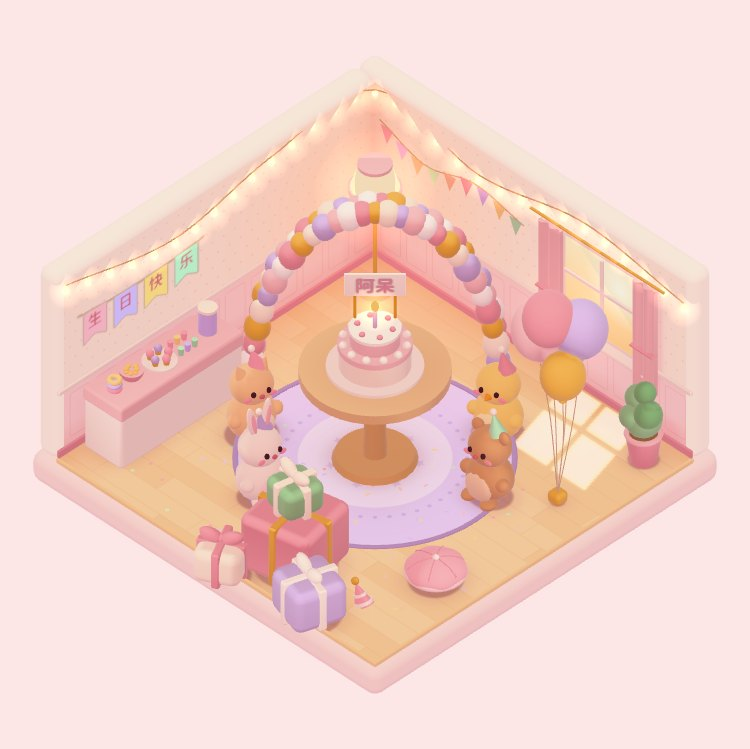
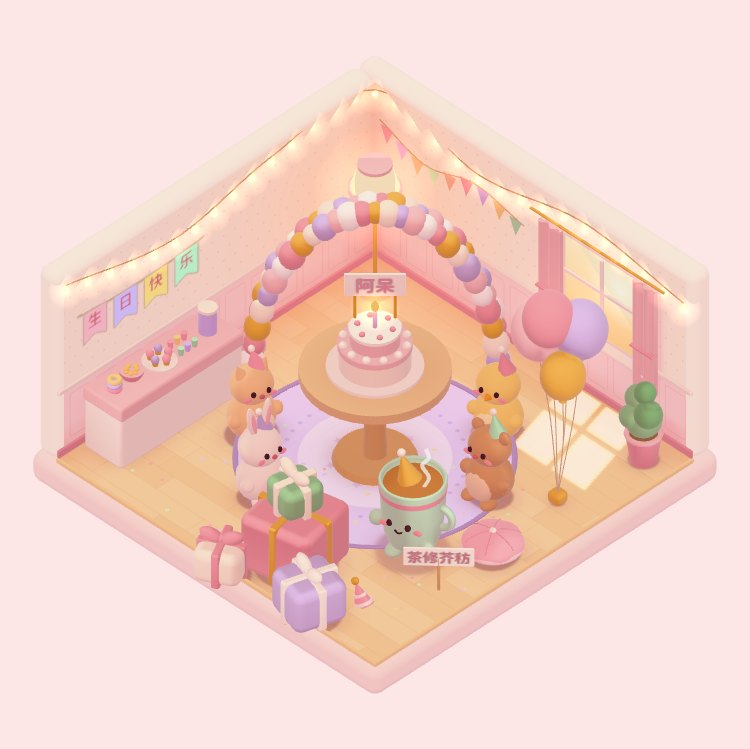
Teacup guest: original clay teacup with name sign, tap to wobble, puff steam and show a small line

Changed region(s): [[0.4907, 0.5834, 0.7053, 0.7984]]

diff --git a/src/room/scene.js b/src/room/scene.js
@@ -14,6 +14,7 @@ import {
   Group, Mesh, MeshLambertMaterial, MeshBasicMaterial, CylinderGeometry, SphereGeometry,
   ConeGeometry, BoxGeometry, TorusGeometry, BufferGeometry, Float32BufferAttribute,
   CatmullRomCurve3, TubeGeometry, Vector3, PlaneGeometry, CanvasTexture, SRGBColorSpace,
+  LatheGeometry, Vector2,
 } from 'three';
 import { RoundedBoxGeometry } from 'three/addons/geometries/RoundedBoxGeometry.js';
 
@@ -270,7 +271,7 @@ function cushion() {
   piping.rotation.x = -Math.PI / 2;
   g.add(at(piping, 0, 0.12, 0));
   g.add(at(ball(0.035, C.white, 10, 8), 0, 0.275, 0));
-  g.position.set(1.65, 0.02, 0.85);
+  g.position.set(1.75, 0.02, 0.2); // 前面留给小茶杯人
   return g;
 }
 
@@ -608,6 +609,89 @@ function guests() {
   return g;
 }
 
+// 原创黏土小茶杯人：圆滚滚的杯身就是身体和脸，右边是杯把，头顶冒一缕热气，脚边插着名牌。正面是 +z
+function teacup() {
+  const g = new Group();
+  const CUP = 0xc4e6cd; // 薄荷青瓷
+  // 杯身：底部圆润、杯口微微外翻，里面有一层茶
+  const profile = [[0, 0.07], [0.09, 0.07], [0.135, 0.1], [0.158, 0.17], [0.172, 0.3], [0.18, 0.43], [0.186, 0.5], [0.178, 0.515], [0.165, 0.5], [0.16, 0.47], [0, 0.47]]
+    .map(([x, y]) => new Vector2(x, y));
+  g.add(flag(new Mesh(new LatheGeometry(profile, 28), mat(CUP)), 'shade'));
+  g.add(at(cyl(0.161, 0.161, 0.01, 0xc98a52, 28), 0, 0.472, 0)); // 茶
+  g.add(at(cyl(0.186, 0.182, 0.035, C.pinkDeep, 28), 0, 0.445, 0)); // 杯口一圈粉色花边
+  // 杯把
+  const handle = new Mesh(new TorusGeometry(0.065, 0.022, 8, 16, Math.PI), mat(CUP));
+  handle.rotation.z = -Math.PI / 2;
+  g.add(at(handle, 0.17, 0.3, 0));
+  // 小手小脚
+  const blob = (r, color, sx, sy, sz, x, y, z) => {
+    const m = ball(r, color, 12, 9);
+    m.scale.set(sx, sy, sz);
+    return at(m, x, y, z);
+  };
+  for (const s of [-1, 1]) g.add(blob(0.05, CUP, 1, 0.65, 1.3, s * 0.075, 0.035, 0.07));
+  g.add(blob(0.045, CUP, 1, 1, 1, -0.19, 0.2, 0.05));
+  g.add(blob(0.045, CUP, 1, 1, 1, 0.14, 0.17, 0.11));
+  // 脸：和小动物一样的眼睛、腮红，再加一个小笑嘴
+  for (const s of [-1, 1]) {
+    g.add(blob(0.018, 0x5a4048, 1, 1.2, 1, s * 0.055, 0.3, 0.165));
+    g.add(blob(0.028, 0xffa7b8, 1, 0.6, 0.4, s * 0.1, 0.265, 0.142));
+  }
+  const smile = new Mesh(new TorusGeometry(0.02, 0.006, 6, 12, Math.PI), mat(0x5a4048));
+  smile.rotation.z = Math.PI;
+  g.add(at(smile, 0, 0.268, 0.168));
+  // 派对帽，歪戴在茶面上
+  const cone = new Mesh(new ConeGeometry(0.07, 0.17, 16), mat(C.gold));
+  cone.rotation.z = 0.3;
+  g.add(at(cone, -0.05, 0.56, -0.01));
+  g.add(at(ball(0.025, C.white, 8, 6), -0.075, 0.645, -0.01));
+  // 头顶一缕热气（单独一个网格，会飘动；点它时冒的一阵热气也在这里）
+  const steamMat = new MeshBasicMaterial({ color: 0xffffff, transparent: true, opacity: 0.75, depthWrite: false });
+  const curve = new CatmullRomCurve3([[0.06, 0.48, 0], [0.09, 0.56, 0], [0.05, 0.63, 0], [0.09, 0.7, 0], [0.07, 0.76, 0]].map((p) => new Vector3(...p)));
+  const steam = new Mesh(new TubeGeometry(curve, 24, 0.011, 6), steamMat);
+  steam.name = 'steam';
+  g.add(flag(steam, 'keep', 'noOcclude'));
+  const puffMat = new MeshBasicMaterial({ color: 0xffffff, transparent: true, opacity: 0, depthWrite: false });
+  const puffs = new Group();
+  puffs.name = 'puffs';
+  for (const [x, z] of [[0.05, 0.02], [-0.04, -0.03], [0.1, -0.05]]) {
+    const p = new Mesh(new SphereGeometry(0.05, 10, 8), puffMat);
+    p.userData.start = new Vector3(x, 0.52, z);
+    p.visible = false;
+    puffs.add(flag(p, 'keep', 'noOcclude'));
+  }
+  g.add(puffs);
+  // 脚边的名牌
+  const sign = new Group();
+  sign.add(at(cyl(0.008, 0.008, 0.22, C.woodDark, 8), 0, 0.11, 0));
+  sign.add(at(box(0.38, 0.125, 0.014, C.white, 0.025), 0, 0.23, 0));
+  sign.add(flag(at(nameLabel('茶修芥䄱', 0.37, 0.12), 0, 0.23, 0.011), 'keep')); // 离牌子表面 4mm
+  sign.position.set(0.27, 0, 0.22);
+  sign.rotation.y = 0.45; // 牌子正对镜头
+  sign.traverse((o) => flag(o, 'noOcclude'));
+  g.add(sign);
+  g.position.set(1.2, 0.02, 0.7);
+  g.rotation.y = 0.3; // 和小动物一样，脸朝镜头偏一点
+  g.scale.setScalar(1.75); // 比小动物大一点：它是主人
+  return g;
+}
+
+// 小牌子上的字：用真正的像素大小画，手机上才不会画坏
+function nameLabel(text, w, h) {
+  const c = document.createElement('canvas');
+  c.width = 384;
+  c.height = Math.round((384 * h) / w);
+  const g = c.getContext('2d');
+  g.fillStyle = '#C9707F';
+  g.font = `700 ${Math.round(c.height * 0.7)}px PartyRound, sans-serif`;
+  g.textAlign = 'center';
+  g.textBaseline = 'middle';
+  g.fillText(text, c.width / 2, c.height * 0.54);
+  const tex = new CanvasTexture(c);
+  tex.colorSpace = SRGBColorSpace;
+  return new Mesh(new PlaneGeometry(w, h), new MeshBasicMaterial({ map: tex, transparent: true }));
+}
+
 export function buildRoom() {
   const root = new Group();
   flag(root, 'unit');
@@ -615,7 +699,7 @@ export function buildRoom() {
     shell(), rugEdge(), windowOnRightWall(), stringLights(), buntings(), lamp(), plant(), cushion(), partyHat(),
     snackTable(), banner(), balloonArch(), guests(),
   );
-  const interactive = { gifts: gifts(), balloons: balloons(), cake: cakeTable() };
+  const interactive = { gifts: gifts(), balloons: balloons(), cake: cakeTable(), teacup: teacup() };
   for (const [key, obj] of Object.entries(interactive)) {
     obj.userData.interactive = key;
     obj.userData.baseScale = obj.scale.x;

diff --git a/src/room.js b/src/room.js
@@ -72,11 +72,12 @@ export function startRoom(el, music = createMusic()) {
         </div>
       </div>
     </div>
-    <p class="room-toast"></p>`);
+    <p class="room-toast"></p>
+    <p class="tea-bubble" aria-live="polite"></p>`);
   const $ = (sel) => el.querySelector(sel);
   const title = $('.room-title'), hint = $('.room-hint'), wallet = $('.room-wallet');
   const cakePanel = $('.cake-panel'), cakeMsg = $('.cake-msg'), cakeActions = $('.cake-actions');
-  const toast = $('.room-toast'), wxHint = $('.wx-hint');
+  const toast = $('.room-toast'), wxHint = $('.wx-hint'), teaBubble = $('.tea-bubble');
 
   // ---------- 场景 ----------
   const renderer = new WebGLRenderer({ canvas, antialias: true, alpha: true, powerPreference: 'high-performance' });
@@ -320,7 +321,51 @@ export function startRoom(el, music = createMusic()) {
       if (b) popBalloon(b);
     } else if (key === 'cake') {
       enterCake();
+    } else if (key === 'teacup') {
+      teaT = 0;
+      teaBubble.textContent = '使唤券还没用哦';
+      teaBubble.classList.remove('show');
+      void teaBubble.offsetWidth; // 连点时让小字重新跳一次
+      teaBubble.classList.add('show');
+      clearTimeout(teaBubbleTimer);
+      teaBubbleTimer = setTimeout(() => teaBubble.classList.remove('show'), 2200);
     }
+  }
+
+  // ---------- 小茶杯人：平时热气轻轻飘，点一下晃一晃、冒一阵热气、跳出一句小字 ----------
+  const teacup = interactive.teacup;
+  const steam = teacup.getObjectByName('steam');
+  const puffs = teacup.getObjectByName('puffs').children;
+  const TEA_HEAD = new Vector3(0, 0.5, 0).applyMatrix4(teacup.matrixWorld); // 小字出现在杯子右边，不挡蛋糕和热气
+  let teaT = -1, teaBubbleTimer = 0;
+  function updateTeacup(t) {
+    steam.position.x = Math.sin(t * 1.7) * 0.012;
+    steam.scale.y = 1 + Math.sin(t * 2.3) * 0.06;
+  }
+  function animateTeacup(dt) {
+    if (teaT < 0) return;
+    teaT += dt;
+    // 晃一下：左右摇，越摇越小
+    const w = Math.max(0, 1 - teaT / 0.9);
+    teacup.rotation.z = Math.sin(teaT * 22) * 0.13 * w;
+    teacup.rotation.x = Math.sin(teaT * 22 + 1) * 0.04 * w;
+    // 一阵热气：三团白雾往上冒、变大、变淡
+    const k = Math.min(teaT / 1.4, 1);
+    puffs[0].material.opacity = 0.9 * (1 - k * k) * Math.min(teaT / 0.15, 1);
+    puffs.forEach((p, i) => {
+      const ki = Math.max(0, Math.min((teaT - i * 0.12) / 1.2, 1));
+      p.visible = ki > 0 && k < 1;
+      p.position.copy(p.userData.start).setY(p.userData.start.y + ease(ki) * 0.4);
+      p.scale.setScalar(0.5 + ki * 1.3);
+    });
+    if (k >= 1) teaT = -1;
+  }
+  function placeTeaBubble() {
+    if (!teaBubble.classList.contains('show')) return;
+    _v.copy(TEA_HEAD).project(camera);
+    const r = canvas.getBoundingClientRect();
+    teaBubble.style.left = `${r.left + ((_v.x + 1) / 2) * r.width}px`;
+    teaBubble.style.top = `${r.top + ((1 - _v.y) / 2) * r.height}px`;
   }
 
   // ---------- 气球：戳破，过一会儿长回来 ----------
@@ -502,6 +547,8 @@ export function startRoom(el, music = createMusic()) {
 
     // 可互动物件的轻微提示动作
     updateBalloons(dt, t);
+    updateTeacup(t);
+    animateTeacup(dt);
     if (!bounces.has(interactive.gifts)) interactive.gifts.position.y = Math.abs(Math.sin(t * 2.2)) * 0.012;
     if (flameT > 0) {
       flameT += dt;
@@ -524,5 +571,6 @@ export function startRoom(el, music = createMusic()) {
     confetti.update(dt, pxPerMeter);
     updateLight(camera, t, flameT > 0);
     renderer.render(scene, camera);
+    placeTeaBubble();
   });
 }

diff --git a/src/style.css b/src/style.css
@@ -347,6 +347,43 @@ body {
 }
 .room-toast.show { opacity: 1; }
 
+/* 小茶杯人头上跳出的一句小字（位置由 room.js 每帧算） */
+.tea-bubble {
+  position: absolute;
+  top: 0;
+  left: 0;
+  margin: 0;
+  padding: 6px 12px;
+  border-radius: 14px;
+  background: rgba(255, 255, 255, .95);
+  box-shadow: 0 6px 14px -8px rgba(203, 120, 140, .8);
+  color: #C9707F;
+  font-size: 13px;
+  font-weight: 700;
+  white-space: nowrap;
+  transform: translate(32px, -50%) scale(.6);
+  transform-origin: left center;
+  pointer-events: none;
+  opacity: 0;
+  transition: opacity .2s ease, transform .2s ease;
+}
+.tea-bubble::after {
+  content: "";
+  position: absolute;
+  top: 50%;
+  left: -5px;
+  border: 6px solid transparent;
+  border-left: 0;
+  border-right-color: rgba(255, 255, 255, .95);
+  transform: translateY(-50%);
+}
+.tea-bubble.show {
+  opacity: 1;
+  transform: translate(32px, -50%) scale(1);
+  transition: opacity .15s ease, transform .35s cubic-bezier(.3, 1.6, .5, 1);
+}
+.cake-mode .tea-bubble { opacity: 0; }
+
 /* ---------- 动画 ---------- */
 
 @keyframes fade-in { from { opacity: 0; transform: translateY(8px); } }
